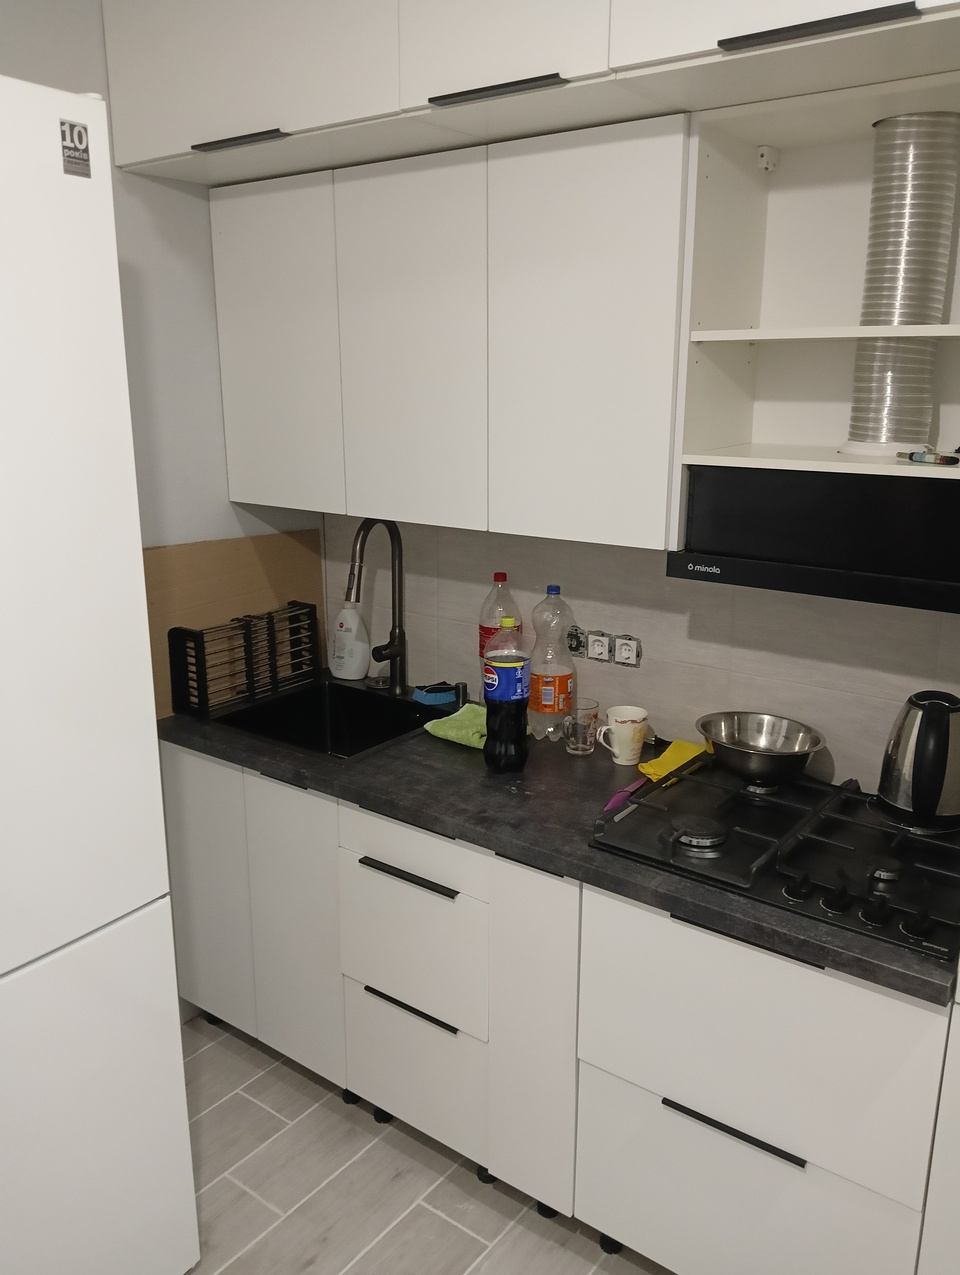
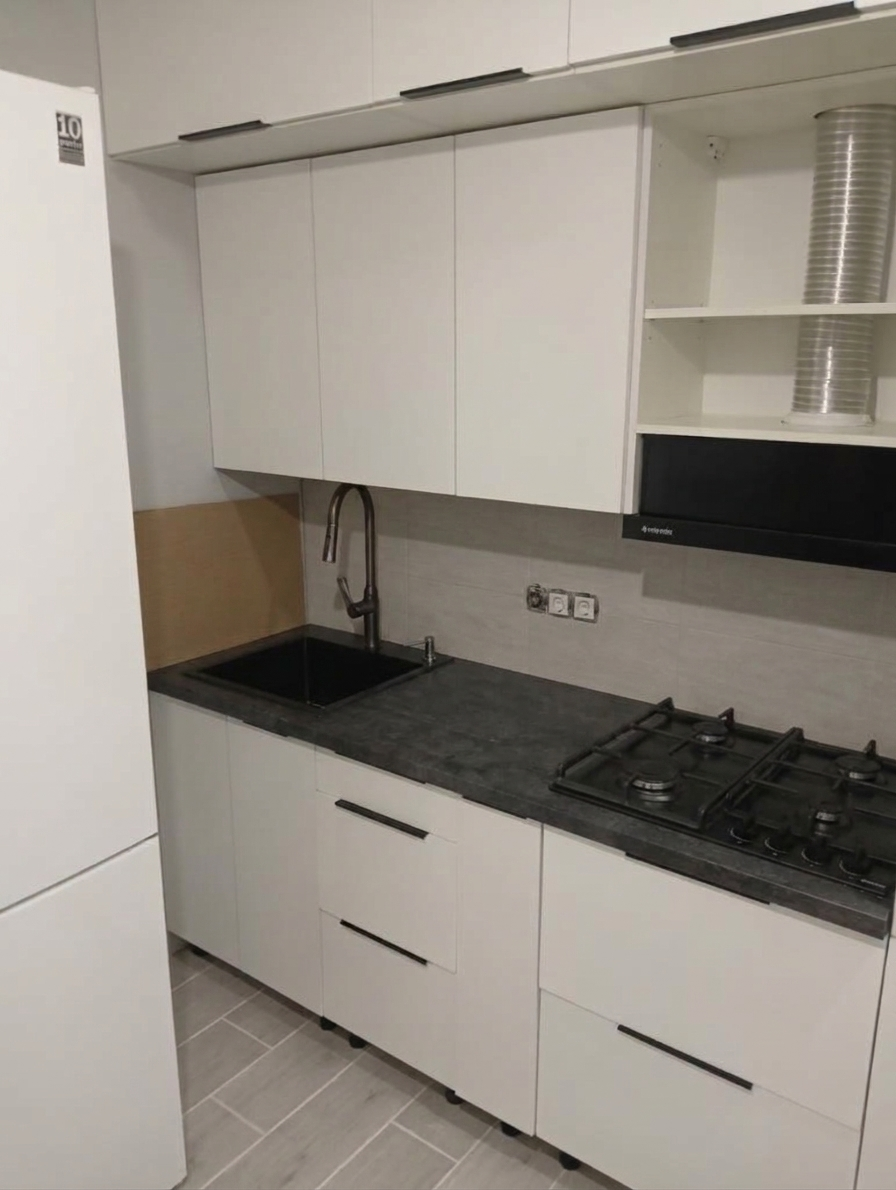
Added photo

diff --git a/src/data/projects.js b/src/data/projects.js
@@ -1,12 +1,21 @@
 export const projects = [
   {
     id: "furniture-assembly-1",
-    title: "Furniture Assembly",
-    category: "Apartment Repairs",
+
+    title: "Збирання меблів",
+
+    category: "Ремонт квартир",
+
+    year: "2026",
+
+    featured: true,
+
     description:
-      "Professional assembly and installation of modern home furniture.",
+      "Професійне складання та встановлення меблів для житлових приміщень.",
+
     cover:
       "/portfolio/apartment_repairs/furniture_assembly/furniture_assembly_1/process1.jpg",
+
     images: [
       "/portfolio/apartment_repairs/furniture_assembly/furniture_assembly_1/process1.jpg",
     ],
@@ -14,12 +23,21 @@ export const projects = [
 
   {
     id: "laying-tiles-on-walls-1",
-    title: "Wall Tile Laying",
-    category: "Apartment Repairs",
+
+    title: "Укладання плитки на стіни",
+
+    category: "Ремонт квартир",
+
+    year: "2026",
+
+    featured: true,
+
     description:
-      "Precision wall tiling work for a clean and durable interior finish.",
+      "Якісне облицювання стін керамічною плиткою з точним дотриманням геометрії.",
+
     cover:
       "/portfolio/apartment_repairs/laying_tiles_on_walls/laying_tiles_on_walls_1/process1.jpg",
+
     images: [
       "/portfolio/apartment_repairs/laying_tiles_on_walls/laying_tiles_on_walls_1/process1.jpg",
     ],
@@ -27,12 +45,21 @@ export const projects = [
 
   {
     id: "underfloor-heating-1",
-    title: "Underfloor Heating Installation",
-    category: "Apartment Repairs",
+
+    title: "Монтаж теплої підлоги",
+
+    category: "Ремонт квартир",
+
+    year: "2026",
+
+    featured: true,
+
     description:
-      "Complete installation of an efficient underfloor heating system.",
+      "Монтаж сучасної системи теплої підлоги для ефективного та комфортного опалення.",
+
     cover:
       "/portfolio/apartment_repairs/underfloor_heating/underfloor_heating_1/process3.jpg",
+
     images: [
       "/portfolio/apartment_repairs/underfloor_heating/underfloor_heating_1/process1.jpg",
       "/portfolio/apartment_repairs/underfloor_heating/underfloor_heating_1/process2.jpg",
@@ -42,12 +69,21 @@ export const projects = [
 
   {
     id: "flowerbed-1",
-    title: "Decorative Flower Bed",
-    category: "Landscape",
+
+    title: "Декоративна клумба",
+
+    category: "Ландшафтні роботи",
+
+    year: "2026",
+
+    featured: true,
+
     description:
-      "Renovation of a decorative flower bed with planting and landscape improvements.",
+      "Оновлення клумби з висадкою рослин та декоративним оформленням.",
+
     cover:
       "/portfolio/landscape/flowerbeds/flowerbed_1/after2.jpg",
+
     images: [
       "/portfolio/landscape/flowerbeds/flowerbed_1/before.jpg",
       "/portfolio/landscape/flowerbeds/flowerbed_1/after1.jpg",
@@ -57,12 +93,21 @@ export const projects = [
 
   {
     id: "flowerbed-2",
-    title: "Garden Flower Bed Arrangement",
-    category: "Landscape",
+
+    title: "Оформлення садової клумби",
+
+    category: "Ландшафтні роботи",
+
+    year: "2026",
+
+    featured: false,
+
     description:
-      "Landscaping and arrangement of a decorative flower bed.",
+      "Створення та оформлення декоративної клумби на території приватного будинку.",
+
     cover:
       "/portfolio/landscape/flowerbeds/flowerbed_2/process1.jpg",
+
     images: [
       "/portfolio/landscape/flowerbeds/flowerbed_2/process1.jpg",
     ],
@@ -70,12 +115,21 @@ export const projects = [
 
   {
     id: "flowerbed-3",
-    title: "Backyard Flower Bed Design",
-    category: "Landscape",
+
+    title: "Клумба на присадибній ділянці",
+
+    category: "Ландшафтні роботи",
+
+    year: "2026",
+
+    featured: false,
+
     description:
-      "Creating and planting a structured garden flower bed.",
+      "Розробка та реалізація декоративної квіткової композиції.",
+
     cover:
       "/portfolio/landscape/flowerbeds/flowerbed_3/process2.jpg",
+
     images: [
       "/portfolio/landscape/flowerbeds/flowerbed_3/process1.jpg",
       "/portfolio/landscape/flowerbeds/flowerbed_3/process2.jpg",
@@ -84,12 +138,21 @@ export const projects = [
 
   {
     id: "lawn-scarification-1",
-    title: "Lawn Scarification",
-    category: "Lawn Care",
+
+    title: "Вичісування газону",
+
+    category: "Догляд за газоном",
+
+    year: "2026",
+
+    featured: true,
+
     description:
-      "Professional lawn scarification and cleaning process to improve grass health and growth.",
+      "Професійне вичісування газону для покращення росту та стану трави.",
+
     cover:
       "/portfolio/landscape/lawn/scarification/process1.jpg",
+
     images: [
       "/portfolio/landscape/lawn/scarification/process1.jpg",
       "/portfolio/landscape/lawn/scarification/process2.jpg",
@@ -99,12 +162,21 @@ export const projects = [
 
   {
     id: "turf-laying-1",
-    title: "Turf Laying",
-    category: "Lawn Care",
+
+    title: "Укладання рулонного газону",
+
+    category: "Догляд за газоном",
+
+    year: "2026",
+
+    featured: true,
+
     description:
-      "Professional turf laying service to create a beautiful and healthy lawn.",
+      "Підготовка ділянки та укладання нового рулонного газону.",
+
     cover:
       "/portfolio/landscape/lawn/turf_laying_1/process1.jpg",
+
     images: [
       "/portfolio/landscape/lawn/turf_laying_1/process1.jpg",
       "/portfolio/landscape/lawn/turf_laying_1/process2.jpg",
@@ -114,12 +186,21 @@ export const projects = [
 
   {
     id: "turf-laying-2",
-    title: "Lawn Turf Installation",
-    category: "Lawn Care",
+
+    title: "Монтаж нового газону",
+
+    category: "Догляд за газоном",
+
+    year: "2026",
+
+    featured: false,
+
     description:
-      "Preparation and laying of fresh natural turf for an even green lawn.",
+      "Створення рівного та густого газону з натурального покриття.",
+
     cover:
       "/portfolio/landscape/lawn/turf_laying_2/process1.jpg",
+
     images: [
       "/portfolio/landscape/lawn/turf_laying_2/process1.jpg",
     ],
@@ -127,12 +208,21 @@ export const projects = [
 
   {
     id: "turf-laying-3",
-    title: "Residential Turf Laying",
-    category: "Lawn Care",
+
+    title: "Газон для приватного подвір'я",
+
+    category: "Догляд за газоном",
+
+    year: "2026",
+
+    featured: false,
+
     description:
-      "Full-cycle rolled turf installation for a residential yard.",
+      "Повний цикл підготовки основи та укладання рулонного газону.",
+
     cover:
       "/portfolio/landscape/lawn/turf_laying_3/process4.jpg",
+
     images: [
       "/portfolio/landscape/lawn/turf_laying_3/process1.jpg",
       "/portfolio/landscape/lawn/turf_laying_3/process2.jpg",

diff --git a/app/layout.tsx b/app/layout.tsx
@@ -13,7 +13,7 @@ const geistMono = Geist_Mono({
 });
 
 export const metadata = {
-  title: "KOV Service | Електрика, сантехніка, опалення та автополив",
+  title: "KOV Service | Електрика, сантехніка, опалення, автополив та ландшафтні роботи у Гайсині",
 
   description:
     "Професійні послуги електрика, сантехніка, опалення, вентиляції, кондиціонування, автополиву та догляду за територією. Гайсин та область.",
@@ -42,13 +42,18 @@ export const metadata = {
   },
 };
 
-export default function RootLayout({ children }: LayoutProps<"/">) {
+export default function RootLayout({
+  children,
+}: LayoutProps<"/">) {
   return (
     <html
-      lang="en"
+      lang="uk"
+      data-scroll-behavior="smooth"
       className={`${geistSans.variable} ${geistMono.variable} h-full antialiased`}
     >
-      <body className="min-h-full flex flex-col">{children}</body>
+      <body className="min-h-full flex flex-col">
+        {children}
+      </body>
     </html>
   );
 }

diff --git a/src/components/sections/RequestForm/RequestForm.jsx b/src/components/sections/RequestForm/RequestForm.jsx
@@ -271,10 +271,9 @@ export default function RequestForm() {
                   border
                   text-center
                   font-medium
-                  ${
-                    status.startsWith("✅")
-                      ? "bg-green-50 border-green-200 text-green-700"
-                      : "bg-red-50 border-red-200 text-red-700"
+                  ${status.startsWith("✅")
+                    ? "bg-green-50 border-green-200 text-green-700"
+                    : "bg-red-50 border-red-200 text-red-700"
                   }
                 `}
               >

diff --git a/src/components/sections/FeaturedProjects/FeaturedProjects.jsx b/src/components/sections/FeaturedProjects/FeaturedProjects.jsx
@@ -3,8 +3,10 @@ import Image from "next/image";
 import { projects } from "@/src/data/projects";
 
 export default function FeaturedProjects() {
-  const featured = projects.slice(0, 3);
 
+  const featured = projects.filter(
+    (project) => project.featured
+  );
   return (
     <section className="py-24 bg-white">
       <div className="max-w-7xl mx-auto px-6">
